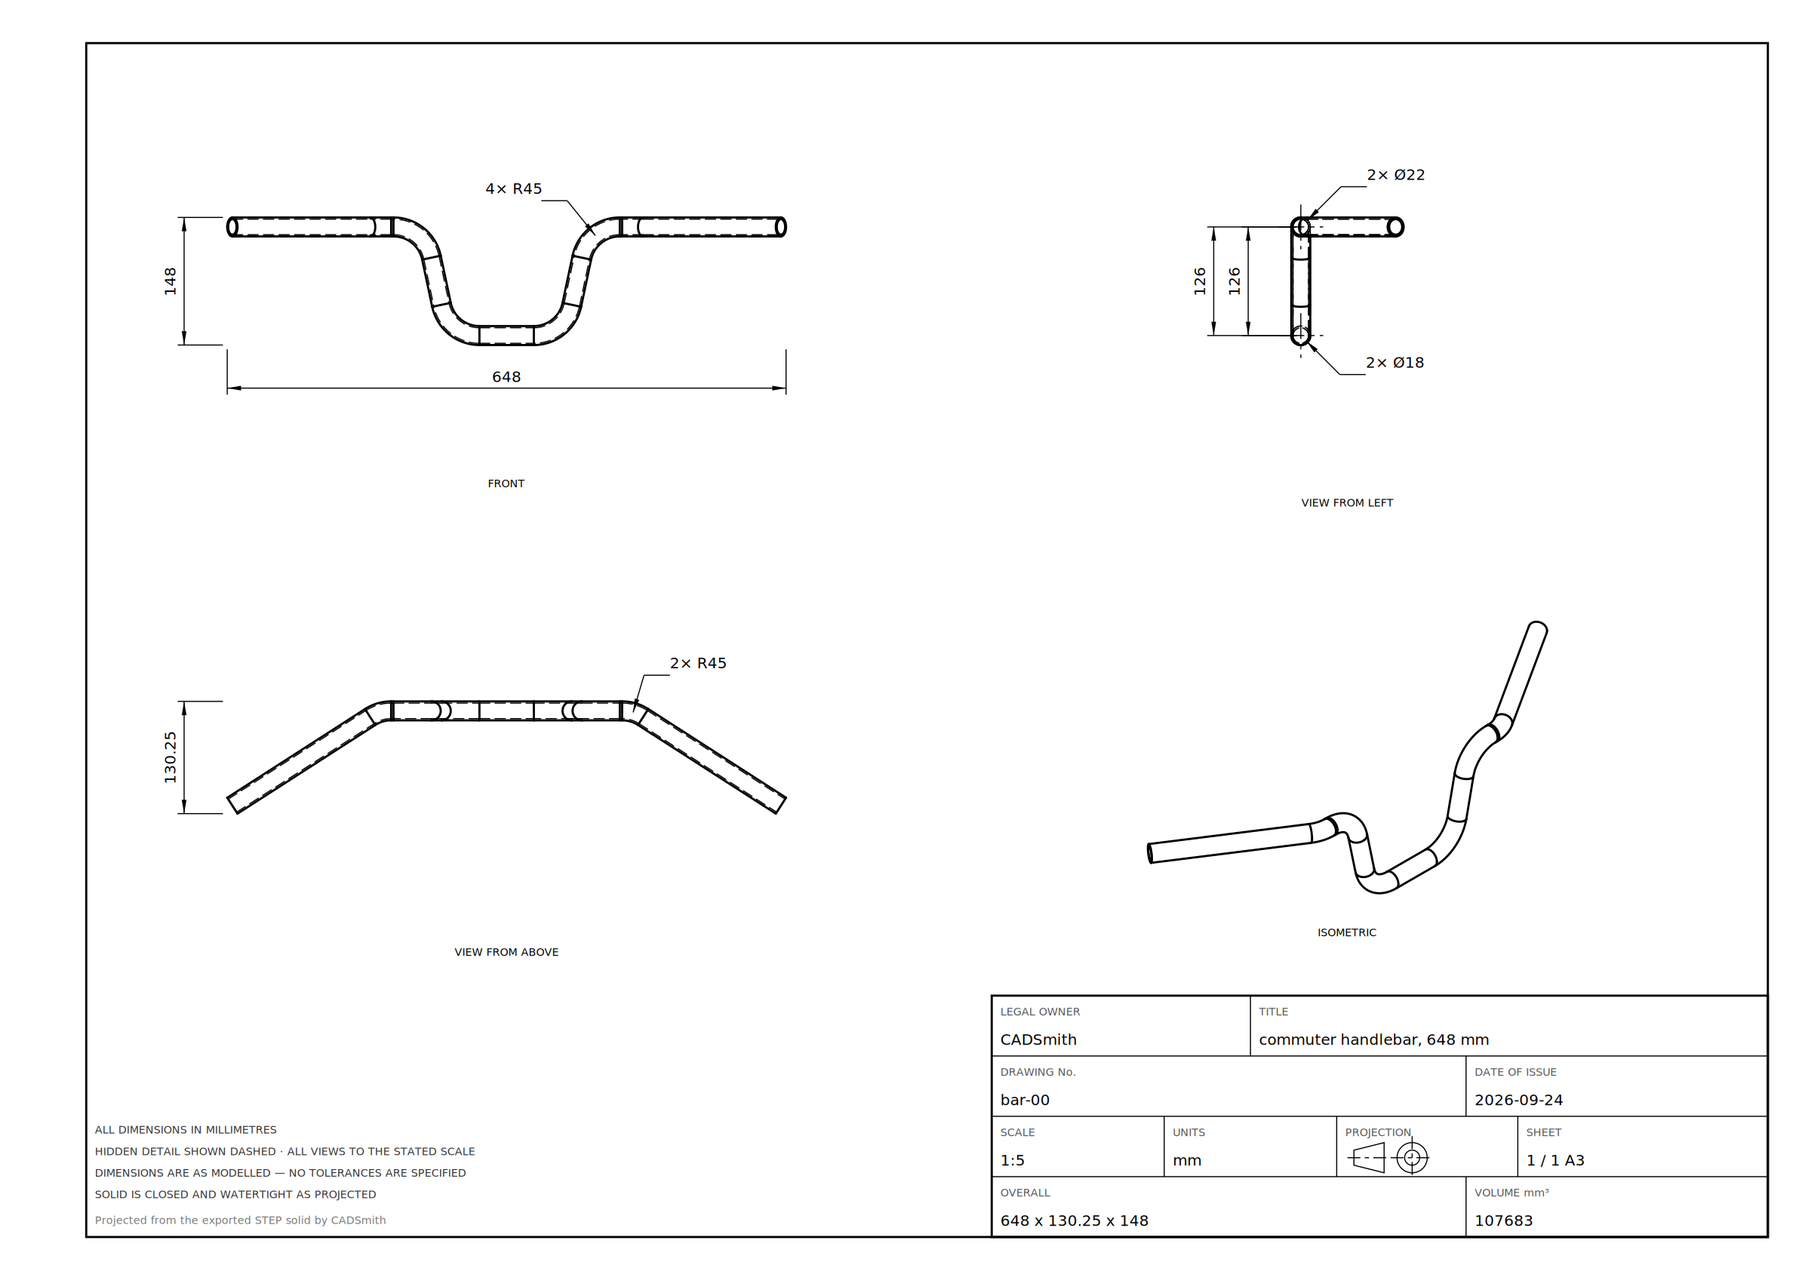
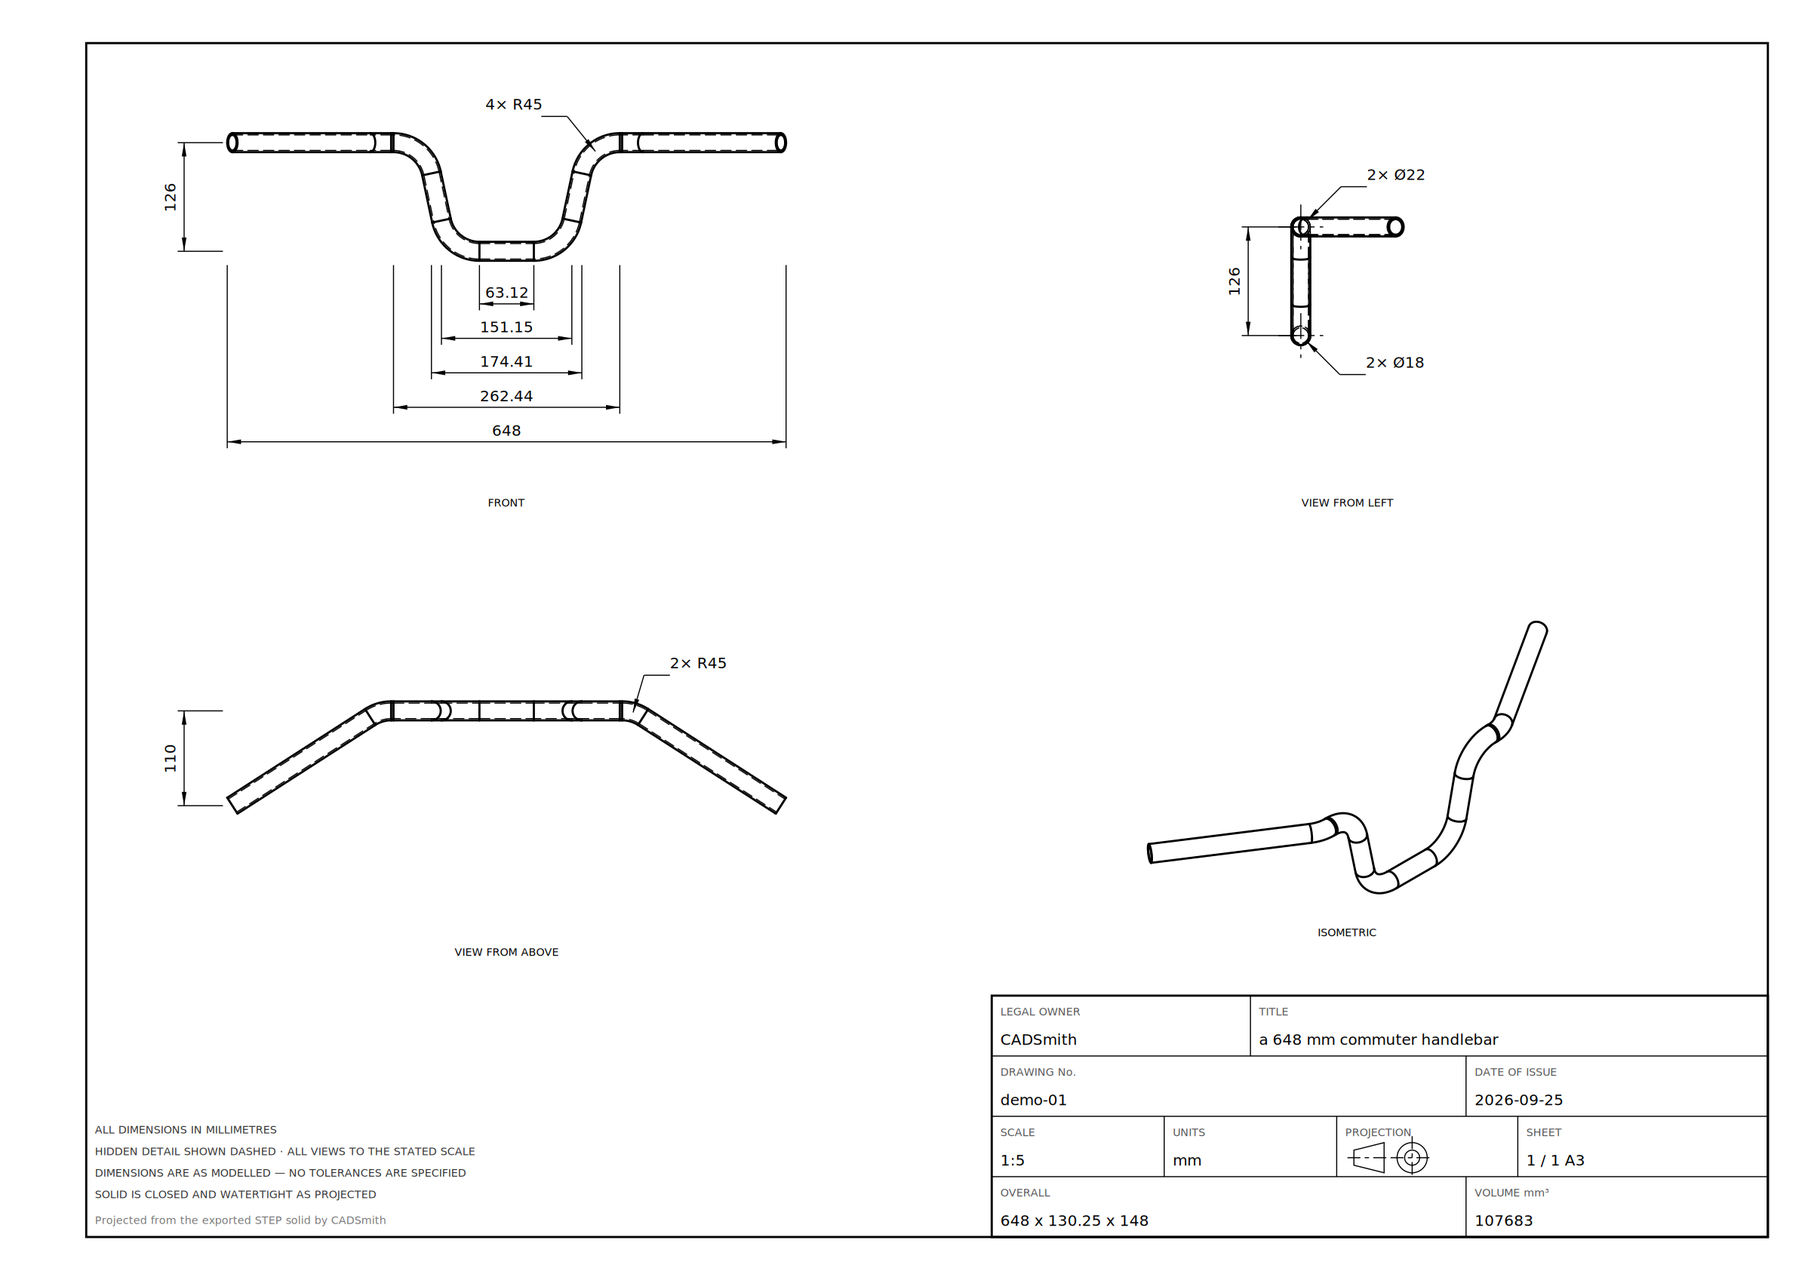
Dimension a bent tube along its path, not around its box
The bounding box of the commuter bar is 648 x 130.25 x 148. Only the
first is a number anyone can work to: 148 is the rise plus a tube, and
130.25 is the pullback plus a tube seen at an angle. The reference
drawing dimensions neither - it stacks a ladder of widths out to each
bend tangent under the overall width, and takes the rise and the
pullback to the centreline, because a centreline is the only thing a
tube bender can be set to.

So the projection now records the path. Each torus face gives up where
its bend starts and stops, and the centre of mass of each flat face
gives where the tube was cut; together those are the vertices a bent
tube is drawn by. The plan view stacks them shortest-nearest under the
view - 63.12 / 151.15 / 174.41 / 262.44 / 648 for the commuter bar -
and replaces the envelope height with the rise, 126 rather than 148.

A ladder that deep did not fit: the last rung landed outside the view's
cell and the view label was clamped up on top of it. A view is now
centred in its cell only until its dimensions need the room, then it
slides up as far as the ladder needs and no further. Nothing without a
ladder moves, so every other part on the sheet is laid out where it was.

Two duplicates fell out along the way. Concentric circles - the wall
and the bore of a tube seen end-on - were positioned once each and so
dimensioned the same pitch twice; and two dimension lines between the
same two points carrying the same number were being kept apart by their
[…]

Changed region(s): [[0.125, 0.0937, 0.4375, 0.3435], [0.7188, 0.812, 0.7812, 0.8433], [0.5625, 0.8433, 0.5938, 0.8745]]

diff --git a/app/server/drawing.py b/app/server/drawing.py
@@ -126,6 +126,8 @@ from OCP.GCPnts import GCPnts_QuasiUniformDeflection
 from OCP.TopExp import TopExp_Explorer
 from OCP.TopAbs import TopAbs_ShapeEnum
 from OCP.TopoDS import TopoDS
+from OCP.BRepGProp import BRepGProp
+from OCP.GProp import GProp_GProps
 from OCP.BRepAdaptor import BRepAdaptor_Curve, BRepAdaptor_Surface
 from OCP.GeomAbs import GeomAbs_CurveType, GeomAbs_SurfaceType
 
@@ -241,17 +243,25 @@ def project(direction, x_direction):
         x_dir = gp_Vec(position.XDirection())
         y_dir = gp_Vec(position.YDirection())
         middle_u = (surface.FirstUParameter() + surface.LastUParameter()) / 2.0
+        def on_centreline(angle):
+            return gp_Pnt(
+                centre.X() + torus.MajorRadius() * (
+                    math.cos(angle) * x_dir.X() + math.sin(angle) * y_dir.X()),
+                centre.Y() + torus.MajorRadius() * (
+                    math.cos(angle) * x_dir.Y() + math.sin(angle) * y_dir.Y()),
+                centre.Z() + torus.MajorRadius() * (
+                    math.cos(angle) * x_dir.Z() + math.sin(angle) * y_dir.Z()))
+
         # The middle of the bend, on its centreline: where a radius leader
         # puts its arrow.
-        crown = gp_Pnt(
-            centre.X() + torus.MajorRadius() * (
-                math.cos(middle_u) * x_dir.X() + math.sin(middle_u) * y_dir.X()),
-            centre.Y() + torus.MajorRadius() * (
-                math.cos(middle_u) * x_dir.Y() + math.sin(middle_u) * y_dir.Y()),
-            centre.Z() + torus.MajorRadius() * (
-                math.cos(middle_u) * x_dir.Z() + math.sin(middle_u) * y_dir.Z()))
+        crown = on_centreline(middle_u)
         u, v = flat(centre)
         mid_u, mid_v = flat(crown)
+        # Where the bend starts and stops being a bend. These are the
+        # vertices of the tube's path, and a drawing of a bent tube
+        # dimensions them - not its bounding box.
+        first_u, first_v = flat(on_centreline(surface.FirstUParameter()))
+        last_u, last_v = flat(on_centreline(surface.LastUParameter()))
         bends.append({
             "u": u, "v": v,
             "r": round(torus.MajorRadius(), 3),
@@ -259,13 +269,28 @@ def project(direction, x_direction):
             "span": round(abs(surface.LastUParameter()
                               - surface.FirstUParameter()), 4),
             "mu": mid_u, "mv": mid_v,
+            "tangents": [[first_u, first_v], [last_u, last_v]],
         })
+
+    # The flat faces of a tube are its two cut ends, and their centres are
+    # where the path finishes. A drawing measures the rise and the pullback
+    # to those, not to the outside of the tube.
+    tips = []
+    explorer = TopExp_Explorer(shape.wrapped, TopAbs_ShapeEnum.TopAbs_FACE)
+    while explorer.More():
+        face = TopoDS.Face_s(explorer.Current())
+        explorer.Next()
+        if BRepAdaptor_Surface(face).GetType() != GeomAbs_SurfaceType.GeomAbs_Plane:
+            continue
+        properties = GProp_GProps()
+        BRepGProp.SurfaceProperties_s(face, properties)
+        tips.append(list(flat(properties.CentreOfMass())))
 
     us = [p[0] for line in visible + hidden for p in line]
     vs = [p[1] for line in visible + hidden for p in line]
     return {
         "visible": visible, "hidden": hidden, "circles": circles,
-        "bends": bends,
+        "bends": bends, "tips": tips,
         "basis": [list(ex), list(ey)],
         "bbox": ([min(us), min(vs), max(us), max(vs)] if us else [0, 0, 0, 0]),
     }
@@ -294,8 +319,10 @@ _DXF_MARKER = f"CADSMITH_SHEET_{SHEET_SCHEMA}"
 #: round. Read through the older cache every hole would come out as a round -
 #: Ø12 becoming R6 - so an older one is re-projected rather than trusted.
 #: Schema 3 added the bends: a swept tube's torus faces, which carry the
-#: centreline radius the projected edges only approximate.
-PROJECTION_SCHEMA = 3
+#: centreline radius the projected edges only approximate. Schema 4 added
+#: where each bend starts and stops, and where the tube ends - the vertices
+#: of its path, which is what a drawing of a bent tube dimensions.
+PROJECTION_SCHEMA = 4
 
 
 def _project(step_path: Path, timeout: int = 180,
@@ -654,6 +681,84 @@ def _round_label(group: dict) -> str:
         else f"{group['count']}\u00d7 R{radius}"
 
 
+#: Two path vertices count as the same position when they are this close.
+#: Tighter and a bend's two tangents at one corner read as two dimensions.
+PATH_TOL = 0.5
+
+
+def _path_points(view: dict) -> list[tuple[float, float]]:
+    """The vertices of a bent tube's centreline, in view coordinates.
+
+    Where each bend starts and stops, plus the two cut ends. These are what
+    a drawing of a bent tube dimensions: the bounding box of a handlebar
+    says it is 130.25 deep, which is true, is not a dimension anyone can
+    work to, and is not what the tube was bent to.
+    """
+    bends = view.get("bends") or []
+    if not bends:
+        # No bends, no path. Every flat face of a plate has a centre too,
+        # and dimensioning those as though they were the ends of a tube
+        # would cover the sheet in numbers that mean nothing.
+        return []
+    points: list[tuple[float, float]] = []
+    for bend in bends:
+        for u, v in bend.get("tangents") or []:
+            points.append((u, v))
+    for tip in view.get("tips") or []:
+        points.append((tip[0], tip[1]))
+    return points
+
+
+def _levels(values: list[float]) -> list[tuple[float, int]]:
+    """Distinct positions and how many vertices sit at each, densest first."""
+    grouped: dict[float, int] = {}
+    for value in values:
+        for seen in grouped:
+            if abs(seen - value) <= PATH_TOL:
+                grouped[seen] += 1
+                break
+        else:
+            grouped[value] = 1
+    return sorted(grouped.items(), key=lambda pair: (-pair[1], abs(pair[0])))
+
+
+def _path_profile(view: dict) -> dict:
+    """What a bent tube's centreline offers a drawing to dimension.
+
+    ``level`` is how far the path climbs away from the run it mostly sits on
+    - the rise of a handlebar to its grips - and ``widths`` are the half
+    distances out to the ends of each straight. Both are centreline
+    quantities, because a centreline is the only thing a tube bender can be
+    set to: the outside of a bend is not a length anyone works from.
+    """
+    points = _path_points(view)
+    if len(points) < 2:
+        return {"level": None, "widths": []}
+
+    # The datum is the level most of the path sits at: the clamp run of a
+    # handlebar, the base of a bent bracket.
+    levels = _levels([v for _, v in points])
+    datum = levels[0][0]
+    far = max((v for v, _ in levels), key=lambda v: abs(v - datum))
+
+    level = None
+    if abs(far - datum) > PATH_TOL:
+        at_datum = min((p for p in points if abs(p[1] - datum) <= PATH_TOL),
+                       key=lambda p: abs(p[0]))
+        at_far = min((p for p in points if abs(p[1] - far) <= PATH_TOL),
+                     key=lambda p: abs(p[0]))
+        level = (at_datum, at_far, abs(far - datum))
+
+    # Where every straight starts and stops. A bender is fed one straight at
+    # a time, so the drawing has to say where each one ends - the reference
+    # sheet stacks that whole ladder under the view, shortest first, with
+    # the overall width outside them all. The last vertex is dropped: it is
+    # the cut end, and the overall width already measures across it.
+    spans = sorted({round(abs(u), 3) for u, _ in points if abs(u) > PATH_TOL})
+    widths = spans[:-1] if len(spans) > 1 else spans
+    return {"level": level, "widths": widths, "datum": datum}
+
+
 def plan_view(name: str, view: dict, scale: float, dimension: str) -> dict:
     """Where everything in one view goes, without drawing any of it.
 
@@ -670,6 +775,29 @@ def plan_view(name: str, view: dict, scale: float, dimension: str) -> dict:
     cx, cy = _cell_centre(meta["cell"])
     umin, vmin, umax, vmax = view["bbox"]
     uc, vc = (umin + umax) / 2.0, (vmin + vmax) / 2.0
+
+    # A bent tube is dimensioned along its centreline, so the envelope gives
+    # way to the path: a handlebar rises 126 to its grips and stands 148
+    # tall, and 126 is the one it was bent to.
+    path = (_path_profile(view) if dimension.strip()
+            else {"level": None, "widths": []})
+
+    # A view is centred in its cell until its dimensions need the room. A
+    # bar carries a ladder of widths under it where a bracket carries one,
+    # so the view slides up the cell until the last of them is inside the
+    # frame - which is what a draughtsman does with the sheet before
+    # drawing anything on it. Only a ladder moves a view: every other part
+    # on the sheet stays where it has always been.
+    ceiling = CELLS_T + meta["cell"][1] * CELL_H + 3.0
+    floor = CELLS_T + (meta["cell"][1] + 1) * CELL_H - 3.0
+    if path["widths"] and "width" in dimension:
+        half_height = (vmax - vmin) * scale / 2.0
+        # Every dimension line in the ladder, the gap under the last of
+        # them, and the view label, which is the lowest thing in the cell.
+        wanted = (cy + half_height + DIM_OFFSET
+                  + len(path["widths"]) * DIM_STEP + 15.0)
+        headroom = (cy - half_height) - (ceiling + 8.0)
+        cy -= max(0.0, min(wanted - floor, max(headroom, 0.0)))
 
     def to_sheet(u: float, v: float) -> tuple[float, float]:
         return (cx + (u - uc) * scale, cy - (v - vc) * scale)
@@ -720,12 +848,33 @@ def plan_view(name: str, view: dict, scale: float, dimension: str) -> dict:
         plan["centre_lines"].append((px - reach, py, px + reach, py))
         plan["centre_lines"].append((px, py - reach, px, py + reach))
 
+    # Shortest nearest the view, longest furthest out - so the overall
+    # length sits outside the positions that make it up, and no dimension
+    # line crosses another's text.
+    rows = 0
     if "width" in dimension:
+        for half in path["widths"]:
+            x1, _ = to_sheet(-half, vc)
+            x2, _ = to_sheet(half, vc)
+            plan["dimensions"].append({
+                "p1": (x1, bottom), "p2": (x2, bottom),
+                "offset": DIM_OFFSET + rows * DIM_STEP, "vertical": False,
+                "measure": half * 2.0})
+            rows += 1
         plan["dimensions"].append({
             "p1": (left, bottom), "p2": (right, bottom),
-            "offset": DIM_OFFSET, "vertical": False,
+            "offset": DIM_OFFSET + rows * DIM_STEP, "vertical": False,
             "measure": umax - umin})
-    if "height" in dimension:
+        rows += 1
+
+    if path["level"] is not None:
+        (datum_u, datum_v), (far_u, far_v), measure = path["level"]
+        _, y1 = to_sheet(datum_u, datum_v)
+        _, y2 = to_sheet(far_u, far_v)
+        plan["dimensions"].append({
+            "p1": (left, y1), "p2": (left, y2),
+            "offset": -DIM_OFFSET, "vertical": True, "measure": measure})
+    elif "height" in dimension:
         plan["dimensions"].append({
             "p1": (left, top), "p2": (left, bottom),
             "offset": -DIM_OFFSET, "vertical": True,
@@ -736,12 +885,13 @@ def plan_view(name: str, view: dict, scale: float, dimension: str) -> dict:
     # the holes go cannot be made from that drawing - it is the single thing
     # that separated this sheet from a manufacturable one.
     groups = _hole_patterns(circles)
+    placed: set[tuple[float, float]] = set()
     # One step out from whatever overall dimension this view already carries -
     # any of them, not only the width. A view that carries the height alone
     # was starting feature dimensions on the line the height was already
     # drawn on, and a pitch written over an overall length is a drawing
     # someone has to come back and ask about.
-    level = 1 if dimension.strip() else 0
+    level = max(rows, 1) if dimension.strip() else 0
     positioned = 0
 
     def below_line(at_y: float) -> float:
@@ -782,6 +932,13 @@ def plan_view(name: str, view: dict, scale: float, dimension: str) -> dict:
             continue
         for circle in members:
             px, py = to_sheet(circle["u"], circle["v"])
+            # Concentric circles are one feature at one place - a
+            # counterbore, or the wall and bore of a tube seen end-on - and
+            # saying where it is twice is a second dimension line carrying
+            # the same number.
+            if (round(px, 2), round(py, 2)) in placed:
+                continue
+            placed.add((round(px, 2), round(py, 2)))
             on_centre_u = abs(circle["u"] - uc) < PATTERN_TOL
             on_centre_v = abs(circle["v"] - vc) < PATTERN_TOL
             if on_centre_u and on_centre_v:
@@ -871,9 +1028,26 @@ def plan_view(name: str, view: dict, scale: float, dimension: str) -> dict:
             "label": _round_label(group)})
     plan["rounds_uncalled"] = rounds[MAX_ROUND_CALLOUTS:]
 
+    seen: set[tuple] = set()
+    unique = []
+    for dim in plan["dimensions"]:
+        # The offset is deliberately not part of this: two dimension lines
+        # between the same two points carrying the same number are one
+        # dimension drawn twice, and stacking the second one further out
+        # does not make it a different dimension. The end view of a tube
+        # measures the pitch of its wall and then of its bore, which are
+        # the same pitch.
+        key = (round(dim["p1"][0], 2), round(dim["p1"][1], 2),
+               round(dim["p2"][0], 2), round(dim["p2"][1], 2),
+               dim["vertical"], round(dim["measure"], 3))
+        if key in seen:
+            continue
+        seen.add(key)
+        unique.append(dim)
+    plan["dimensions"] = unique
+
     below = bottom + (DIM_OFFSET + level * DIM_STEP + 10.0
                      if ("width" in dimension or level) else 5.0)
-    floor = CELLS_T + (meta["cell"][1] + 1) * CELL_H - 3.0
     plan["label_at"] = (cx, min(below + 5.0, floor))
     return plan
 

diff --git a/app/tests/test_handlebars.py b/app/tests/test_handlebars.py
@@ -201,6 +201,38 @@ def main() -> int:
     check("and the bends by radius",
           any(label.endswith(f"R{wanted:g}") for label in labels), str(labels))
 
+    print("\nAnd it dimensions the path, the way the reference sheet does")
+    front = next(v for v in plan["views"] if v["name"] == "FRONT")
+    across = sorted(round(dim["measure"], 2) for dim in front["dimensions"]
+                    if not dim["vertical"])
+    # A ladder: where every straight ends, then the overall width outside
+    # them all. The bounding box alone - one number - is not a drawing
+    # anyone can bend a tube from.
+    check("the front view stacks a ladder of widths",
+          len(across) >= 4, str(across))
+    check("with the overall width the largest of them",
+          across and abs(across[-1] - part.parameters["overall_width"]) < 0.6,
+          str(across))
+    check("and each one wider than the last, so none is drawn twice",
+          all(b - a > 1.0 for a, b in zip(across, across[1:])), str(across))
+    # The envelope of this bar is 148 tall - tube included - and its rise is
+    # 126. The drawing has to say 126, because that is what it is bent to.
+    rises = [round(dim["measure"], 2) for dim in front["dimensions"]
+             if dim["vertical"]]
+    check("the height is the rise to the grips, not the envelope",
+          any(abs(rise - part.parameters["rise"]) < 0.6 for rise in rises),
+          str(rises))
+    # Every dimension line has to be inside the frame it was drawn on.
+    for view in plan["views"]:
+        ys = [dim["p1"][1] + dim["offset"] for dim in view["dimensions"]]
+        check(f"{view['name']} keeps its dimensions on the sheet",
+              all(drawing.FRAME_T < y < drawing.FRAME_B for y in ys),
+              str([round(y, 1) for y in ys]))
+        label_y = view["label_at"][1]
+        below = [y for y in ys if not view["name"] == "ISO" and y > label_y]
+        check(f"{view['name']} puts its label below them, not through them",
+              not below, str([round(y, 1) for y in below]))
+
     print("\n" + "=" * 60)
     if failures:
         print(f"{len(failures)} CHECK(S) FAILED")

diff --git a/app/README.md b/app/README.md
@@ -702,6 +702,20 @@ same bend came out `R45` in the front view and `R56` in the view from above.
 The tube itself is called out where it is seen end-on, `Ø22` outside and
 `Ø18` in, which is how the reference drawing specifies it too.
 
+**A bent tube is dimensioned along its path, not around its box.** The
+bounding box of the commuter bar is 648 x 130.25 x 148, and only the first
+of those is a number anyone can work to: 148 is the rise plus a tube, and
+130.25 is the pullback plus a tube seen at an angle. So the projection
+records the path - where each bend starts and stops, taken off the torus
+faces, and where the tube is cut, taken off the centres of its two flat
+faces - and the sheet dimensions that instead: a ladder of widths out to
+each bend tangent, `63.12 / 151.15 / 174.41 / 262.44`, stacked shortest
+first under the overall `648`, with the rise `126` and the pullback `110`
+measured to the centreline. That is the pattern of the reference drawing,
+and it is what a bender is set from. A view slides up its cell far enough
+for the last rung of the ladder to stay inside the frame; every other part
+on the sheet is laid out exactly where it was.
+
 Ask for a named bend - "a drag bar", "mini ape hangers", "a commuter
 handlebar", ドラッグバー - and it is served from the catalogue exactly and
 instantly. Ask for "a handlebar" and it is not: a bar is five dimensions

diff --git a/docs/handlebar/README.md b/docs/handlebar/README.md
@@ -6,7 +6,7 @@ sells a bar by, built in the CAD kernel, measured, drawn, and exported.
 | | |
 |---|---|
 | `styles.png` | Ten bends, all to one scale, each projected from the solid the kernel built. Generated by `python -m app.tools.handlebar_chart`. |
-| `commuter-sheet.png` | The A3 drawing of the 648 mm commuter bar: bends called out `R45`, tube `Ø22` outside and `Ø18` in. |
+| `commuter-sheet.png` | The A3 drawing of the 648 mm commuter bar, dimensioned the way a bent-tube drawing is: a ladder of widths out to each bend tangent under the overall `648`, the rise `126` and the pullback `110` taken to the centreline, bends called out `R45`, tube `Ø22` outside and `Ø18` in. |
 | `measured-checks.png` | What the kernel reports back about a bar it has just built, including the tightest bend as a multiple of the tube diameter. |
 | `parameters.png` | The nine parameters as sliders. Moving the rise re-bends the bar; the numbers under it are re-measured, not re-stated. |
 
